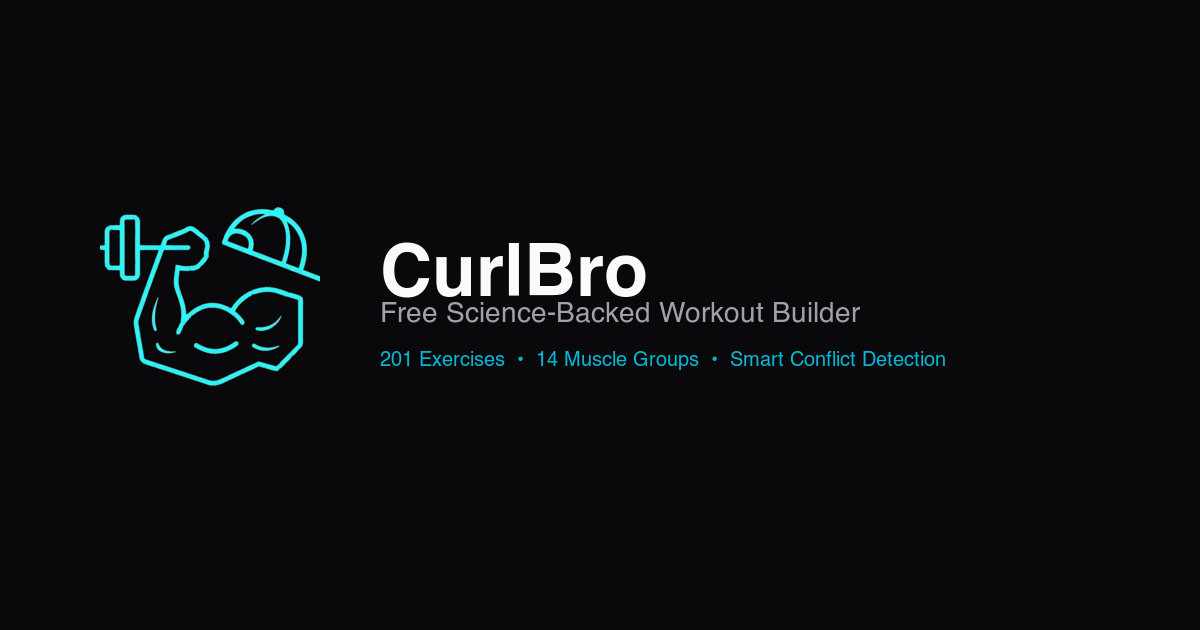
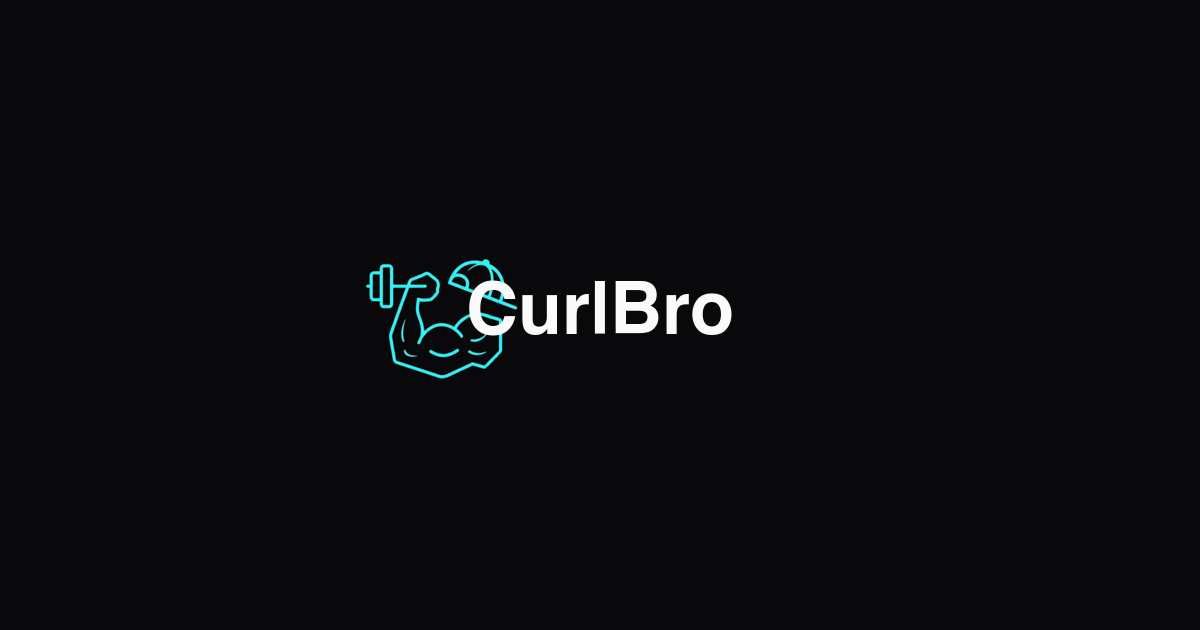
chore: remove "science-backed" language, portfolio ads, add delete confirmation
- Remove all "science-backed/based" phrasing across app and content pages
- Simplify OG image to just logo + "CurlBro" text
- Remove all 6 portfolio/"Built by" house ads and portfolio category
- Replace "Clear all saved workouts & logs" with "Delete all data" + confirmation prompt
- Fix privacy policy overview to not contradict GA/AdSense sections
- Update ad slot configs, tests, and docs

Changed region(s): [[0.3083, 0.3619, 0.7092, 0.6032], [0.0617, 0.3317, 0.2775, 0.6333], [0.6167, 0.5429, 0.7708, 0.6032]]

diff --git a/public/guide/index.html b/public/guide/index.html
@@ -25,9 +25,9 @@
 
   <!-- SEO Meta -->
   <title>User Guide &mdash; CurlBro Workout Builder</title>
-  <meta name="description" content="Complete guide to CurlBro, the free science-backed workout builder. Learn about 201 exercises, smart conflict detection, superset grouping, gap analysis, and 16 pre-built templates." />
+  <meta name="description" content="Complete guide to CurlBro, the free workout builder. Learn about 201 exercises, smart conflict detection, superset grouping, gap analysis, and 16 pre-built templates." />
   <meta name="author" content="Simone Longo" />
-  <meta name="keywords" content="curlbro guide, workout builder tutorial, exercise conflict detection, superset workout, gap analysis, workout templates, science-based workout" />
+  <meta name="keywords" content="curlbro guide, workout builder tutorial, exercise conflict detection, superset workout, gap analysis, workout templates, free workout app" />
   <meta name="robots" content="index, follow" />
   <link rel="canonical" href="https://curlbro.com/guide/" />
 
@@ -44,7 +44,7 @@
   <meta property="og:type" content="article" />
   <meta property="og:url" content="https://curlbro.com/guide/" />
   <meta property="og:title" content="User Guide &mdash; CurlBro Workout Builder" />
-  <meta property="og:description" content="Complete guide to CurlBro, the free science-backed workout builder with 201 exercises, smart conflict detection, and 16 pre-built templates." />
+  <meta property="og:description" content="Complete guide to CurlBro, the free workout builder with 201 exercises, smart conflict detection, and 16 pre-built templates." />
   <meta property="og:image" content="https://curlbro.com/og-image.png" />
   <meta property="og:image:width" content="1200" />
   <meta property="og:image:height" content="630" />
@@ -54,7 +54,7 @@
   <!-- Twitter Card -->
   <meta name="twitter:card" content="summary_large_image" />
   <meta name="twitter:title" content="User Guide &mdash; CurlBro Workout Builder" />
-  <meta name="twitter:description" content="Complete guide to the free science-backed workout builder with 201 exercises and smart programming tools." />
+  <meta name="twitter:description" content="Complete guide to the free workout builder with 201 exercises and smart programming tools." />
   <meta name="twitter:image" content="https://curlbro.com/og-image.png" />
 
   <!-- JSON-LD Article -->
@@ -654,7 +654,7 @@
     </span>
     <h1>User <span>Guide</span></h1>
     <p class="hero-sub">
-      Everything you need to build smarter, science-backed workouts. From your first session to advanced programming techniques, this guide covers every feature in CurlBro.
+      Everything you need to build smarter workouts. From your first session to advanced programming techniques, this guide covers every feature in CurlBro.
     </p>
     <div class="stat-grid">
       <div class="stat-card">
@@ -785,7 +785,7 @@
           </ol>
 
           <div class="callout">
-            <p><strong>Quick start alternative:</strong> If you do not want to build from scratch, head to the Library tab and choose one of the 16 pre-built templates. These are science-backed programs designed for different experience levels and split types. Tap any template to preview it, then start it directly or copy it to customize.</p>
+            <p><strong>Quick start alternative:</strong> If you do not want to build from scratch, head to the Library tab and choose one of the 16 pre-built templates. These are programs designed for different experience levels and split types. Tap any template to preview it, then start it directly or copy it to customize.</p>
           </div>
 
           <h3>Navigating the App</h3>

diff --git a/index.html b/index.html
@@ -24,10 +24,10 @@
     </script>
 
     <!-- SEO Meta -->
-    <title>CurlBro — Free Science-Backed Workout Builder | 201 Exercises</title>
-    <meta name="description" content="Free science-backed workout builder with 201 exercises, smart conflict detection, superset grouping, and gap analysis. Build balanced gym routines — no signup, no subscription." />
+    <title>CurlBro — Free Workout Builder | 201 Exercises</title>
+    <meta name="description" content="Free workout builder with 201 exercises, smart conflict detection, superset grouping, and gap analysis. Build balanced gym routines — no signup, no subscription." />
     <meta name="author" content="Simone Longo" />
-    <meta name="keywords" content="workout builder, exercise planner, gym workout generator, workout tracker, science-based workout, free workout app, curlbro" />
+    <meta name="keywords" content="workout builder, exercise planner, gym workout generator, workout tracker, free workout app, curlbro" />
     <meta name="robots" content="index, follow" />
     <meta name="application-name" content="CurlBro" />
     <link rel="canonical" href="https://curlbro.com/" />
@@ -45,7 +45,7 @@
     <!-- Open Graph -->
     <meta property="og:type" content="website" />
     <meta property="og:url" content="https://curlbro.com/" />
-    <meta property="og:title" content="CurlBro — Free Science-Backed Workout Builder" />
+    <meta property="og:title" content="CurlBro — Free Workout Builder" />
     <meta property="og:description" content="Build balanced gym workouts with 201 exercises, smart conflict detection, superset grouping, and gap analysis. Free, no signup required." />
     <meta property="og:image" content="https://curlbro.com/og-image.png" />
     <meta property="og:image:width" content="1200" />
@@ -56,7 +56,7 @@
 
     <!-- Twitter Card -->
     <meta name="twitter:card" content="summary_large_image" />
-    <meta name="twitter:title" content="CurlBro — Free Science-Backed Workout Builder" />
+    <meta name="twitter:title" content="CurlBro — Free Workout Builder" />
     <meta name="twitter:description" content="Build balanced gym workouts with 201 exercises, smart conflict detection, and gap analysis. Free, no signup." />
     <meta name="twitter:image" content="https://curlbro.com/og-image.png" />
     <meta name="twitter:image:alt" content="CurlBro workout builder app interface" />
@@ -68,7 +68,7 @@
       "@type": "WebApplication",
       "name": "CurlBro",
       "url": "https://curlbro.com/",
-      "description": "Free science-backed workout builder with 201 exercises, smart conflict detection, superset grouping, and gap analysis for balanced gym training.",
+      "description": "Free workout builder with 201 exercises, smart conflict detection, superset grouping, and gap analysis for balanced gym training.",
       "applicationCategory": "HealthApplication",
       "operatingSystem": "Any (Web Browser)",
       "browserRequirements": "Requires JavaScript",
@@ -111,7 +111,7 @@
     <noscript>
       <div style="padding:2rem;font-family:sans-serif;color:#fafafa;background:#09090b;min-height:100vh">
         <h1>CurlBro — Free Workout Builder</h1>
-        <p>CurlBro is a free, science-backed workout builder with 201 exercises covering 14 muscle groups.</p>
+        <p>CurlBro is a free workout builder with 201 exercises covering 14 muscle groups.</p>
         <h2>Features</h2>
         <ul>
           <li>Build custom gym workouts from 201 exercises (162 strength, 32 stretching/mobility, 7 cardio)</li>

diff --git a/src/data/houseAds.ts b/src/data/houseAds.ts
@@ -41,14 +41,6 @@ export const HOUSE_ADS: HouseAd[] = [
   { id: 'nu3', category: 'nutrition', label: 'CURLBRO TIP', headline: 'Creatine Works', body: 'Creatine monohydrate is the most studied and effective supplement. 3-5g daily improves strength, power, and muscle growth.', accentColor: 'border-l-violet-500' },
   { id: 'nu4', category: 'nutrition', label: 'CURLBRO TIP', headline: 'Don\'t Fear Carbs', body: 'Carbs fuel intense training. Eat them around workouts for energy and recovery — they don\'t make you fat, excess calories do.', accentColor: 'border-l-violet-500' },
 
-  // Portfolio (6) — accent-primary (app's theme color)
-  { id: 'pf1', category: 'portfolio', label: 'BUILT BY', headline: 'Simone Longo', body: 'Full-stack developer and fitness enthusiast. CurlBro is built with science-backed programming principles.', cta: 'Visit Portfolio', href: 'https://simonelongo.com', accentColor: 'border-l-accent-primary' },
-  { id: 'pf2', category: 'portfolio', label: 'BUILT BY', headline: 'Simone Longo', body: 'CurlBro is free, open-source, and built with love. Check out my other projects and get in touch.', cta: 'Get in Touch', href: 'https://simonelongo.com', accentColor: 'border-l-accent-primary' },
-  { id: 'pf3', category: 'portfolio', label: 'BUILT BY', headline: 'Simone Longo', body: 'Have ideas for CurlBro? Feature requests, bug reports, and feedback are always welcome.', cta: 'Send Feedback', href: 'https://github.com/SpacemanSpiff7/CurlBro/issues', accentColor: 'border-l-accent-primary' },
-  { id: 'pf4', category: 'portfolio', label: 'BUILT BY', headline: 'Simone Longo', body: 'CurlBro uses a graph of 201 exercises with smart conflict detection and gap analysis for balanced workouts.', cta: 'Learn More', href: 'https://simonelongo.com', accentColor: 'border-l-accent-primary' },
-  { id: 'pf5', category: 'portfolio', label: 'BUILT BY', headline: 'Simone Longo', body: 'Building tools that make science-backed fitness accessible to everyone. No subscriptions, no paywalls.', cta: 'Visit Portfolio', href: 'https://simonelongo.com', accentColor: 'border-l-accent-primary' },
-  { id: 'pf6', category: 'portfolio', label: 'BUILT BY', headline: 'Simone Longo', body: 'Enjoying CurlBro? Share it with a friend who lifts. The best feedback comes from real users.', cta: 'Visit Portfolio', href: 'https://simonelongo.com', accentColor: 'border-l-accent-primary' },
-
   // General (3) — zinc accent
   { id: 'gn1', category: 'general', label: 'CURLBRO TIP', headline: 'Progressive Overload', body: 'Gradually increase weight, reps, or sets over time. Your body adapts — keep challenging it to keep growing.', accentColor: 'border-l-zinc-400' },
   { id: 'gn2', category: 'general', label: 'CURLBRO TIP', headline: 'Consistency Beats Perfection', body: 'The best program is the one you stick to. Three solid workouts per week beats six inconsistent ones.', accentColor: 'border-l-zinc-400' },

diff --git a/src/pages/SettingsPage.tsx b/src/pages/SettingsPage.tsx
@@ -1,5 +1,5 @@
 import { useState, useCallback } from 'react';
-import { RotateCcw, Info, Shield, FileText, ExternalLink, Cookie, Mail, BookOpen, Dumbbell } from 'lucide-react';
+import { RotateCcw, Trash2, Info, Shield, FileText, ExternalLink, Cookie, Mail, BookOpen, Dumbbell } from 'lucide-react';
 import { resetCookieConsent } from '@/components/shared/CookieConsent';
 import { Button } from '@/components/ui/button';
 import { TopBar } from '@/components/shared/TopBar';
@@ -15,6 +15,7 @@ export function SettingsPage() {
   const [aboutOpen, setAboutOpen] = useState(false);
   const [privacyOpen, setPrivacyOpen] = useState(false);
   const [termsOpen, setTermsOpen] = useState(false);
+  const [confirmDelete, setConfirmDelete] = useState(false);
   const settings = useStore((state) => state.settings);
   const { updateSettings, resetSettings } = useStore((state) => state.settingsActions);
   const { clearAll } = useStore((state) => state.libraryActions);
@@ -267,15 +268,41 @@ export function SettingsPage() {
             <RotateCcw size={14} className="mr-2" />
             Reset settings to defaults
           </Button>
-          <Button
-            variant="ghost"
-            size="sm"
-            onClick={clearAll}
-            className="w-full justify-start text-destructive hover:text-destructive"
-          >
-            <RotateCcw size={14} className="mr-2" />
-            Clear all saved workouts &amp; logs
-          </Button>
+          {!confirmDelete ? (
+            <Button
+              variant="ghost"
+              size="sm"
+              onClick={() => setConfirmDelete(true)}
+              className="w-full justify-start text-destructive hover:text-destructive"
+            >
+              <Trash2 size={14} className="mr-2" />
+              Delete all data
+            </Button>
+          ) : (
+            <div className="rounded-lg border border-destructive/30 bg-destructive/10 p-3 space-y-2">
+              <p className="text-xs text-destructive">
+                This will delete all your workouts and history. Are you sure?
+              </p>
+              <div className="flex gap-2">
+                <Button
+                  variant="ghost"
+                  size="sm"
+                  onClick={() => setConfirmDelete(false)}
+                  className="flex-1 text-text-secondary"
+                >
+                  Cancel
+                </Button>
+                <Button
+                  variant="ghost"
+                  size="sm"
+                  onClick={() => { clearAll(); setConfirmDelete(false); }}
+                  className="flex-1 text-destructive hover:text-destructive"
+                >
+                  Delete
+                </Button>
+              </div>
+            </div>
+          )}
         </div>
       </div>
       {/* Ad slot */}

diff --git a/src/config/ads.ts b/src/config/ads.ts
@@ -1,5 +1,5 @@
 export type AdSlotKey = 'build' | 'rest_timer' | 'post_workout' | 'library_feed' | 'log_feed' | 'settings';
-export type HouseAdCategory = 'form_tip' | 'recovery' | 'challenge' | 'portfolio' | 'nutrition' | 'general';
+export type HouseAdCategory = 'form_tip' | 'recovery' | 'challenge' | 'nutrition' | 'general';
 
 export interface AdSlotConfig {
   slotId: string;
@@ -17,10 +17,10 @@ export const ADSENSE_ENABLED = import.meta.env.PROD && false; // Kill switch —
 export const ADSENSE_TEST_MODE = true;
 
 export const AD_SLOTS: Record<AdSlotKey, AdSlotConfig> = {
-  build:         { slotId: '', format: 'horizontal', houseAdCategories: ['form_tip', 'challenge', 'portfolio'], rotateHouseAds: false, rotateIntervalMs: 0 },
-  rest_timer:    { slotId: '', format: 'horizontal', houseAdCategories: ['form_tip', 'portfolio', 'general'], rotateHouseAds: true, rotateIntervalMs: 30_000 },
-  post_workout:  { slotId: '', format: 'auto', houseAdCategories: ['recovery', 'nutrition', 'portfolio'], rotateHouseAds: false, rotateIntervalMs: 0 },
-  library_feed:  { slotId: '', format: 'horizontal', houseAdCategories: ['challenge', 'portfolio', 'general'], rotateHouseAds: false, rotateIntervalMs: 0 },
-  log_feed:      { slotId: '', format: 'horizontal', houseAdCategories: ['recovery', 'portfolio', 'general'], rotateHouseAds: false, rotateIntervalMs: 0 },
-  settings:      { slotId: '', format: 'horizontal', houseAdCategories: ['portfolio', 'general'], rotateHouseAds: false, rotateIntervalMs: 0 },
+  build:         { slotId: '', format: 'horizontal', houseAdCategories: ['form_tip', 'challenge', 'general'], rotateHouseAds: false, rotateIntervalMs: 0 },
+  rest_timer:    { slotId: '', format: 'horizontal', houseAdCategories: ['form_tip', 'recovery', 'general'], rotateHouseAds: true, rotateIntervalMs: 30_000 },
+  post_workout:  { slotId: '', format: 'auto', houseAdCategories: ['recovery', 'nutrition', 'general'], rotateHouseAds: false, rotateIntervalMs: 0 },
+  library_feed:  { slotId: '', format: 'horizontal', houseAdCategories: ['challenge', 'nutrition', 'general'], rotateHouseAds: false, rotateIntervalMs: 0 },
+  log_feed:      { slotId: '', format: 'horizontal', houseAdCategories: ['recovery', 'form_tip', 'general'], rotateHouseAds: false, rotateIntervalMs: 0 },
+  settings:      { slotId: '', format: 'horizontal', houseAdCategories: ['form_tip', 'general'], rotateHouseAds: false, rotateIntervalMs: 0 },
 };

diff --git a/src/components/ads/HouseAd.test.tsx b/src/components/ads/HouseAd.test.tsx
@@ -12,15 +12,15 @@ const tipAd: HouseAd = {
   accentColor: 'border-l-cyan-500',
 };
 
-const portfolioAd: HouseAd = {
-  id: 'test-pf',
-  category: 'portfolio',
-  label: 'BUILT BY',
-  headline: 'Simone Longo',
-  body: 'Test portfolio ad',
-  cta: 'Visit Portfolio',
-  href: 'https://simonelongo.com',
-  accentColor: 'border-l-accent-primary',
+const linkAd: HouseAd = {
+  id: 'test-link',
+  category: 'general',
+  label: 'CURLBRO TIP',
+  headline: 'Test Link Ad',
+  body: 'Test ad with link',
+  cta: 'Learn More',
+  href: 'https://example.com',
+  accentColor: 'border-l-zinc-400',
 };
 
 describe('HouseAdComponent', () => {
@@ -37,16 +37,16 @@ describe('HouseAdComponent', () => {
   });
 
   it('renders as a link when href is present', () => {
-    render(<HouseAdComponent ad={portfolioAd} />);
+    render(<HouseAdComponent ad={linkAd} />);
     const link = screen.getByRole('link');
-    expect(link.getAttribute('href')).toBe('https://simonelongo.com');
+    expect(link.getAttribute('href')).toBe('https://example.com');
     expect(link.getAttribute('target')).toBe('_blank');
     expect(link.getAttribute('rel')).toBe('noopener noreferrer');
   });
 
   it('renders CTA text when provided', () => {
-    render(<HouseAdComponent ad={portfolioAd} />);
-    expect(screen.getByText('Visit Portfolio')).toBeTruthy();
+    render(<HouseAdComponent ad={linkAd} />);
+    expect(screen.getByText('Learn More')).toBeTruthy();
   });
 
   it('does not render CTA when not provided', () => {

diff --git a/src/components/ads/HouseAd.tsx b/src/components/ads/HouseAd.tsx
@@ -1,5 +1,5 @@
 import { memo } from 'react';
-import { Lightbulb, Moon, Flame, Apple, Sparkles, Dumbbell, ExternalLink } from 'lucide-react';
+import { Lightbulb, Moon, Flame, Apple, Dumbbell, ExternalLink } from 'lucide-react';
 import type { HouseAd as HouseAdType } from '../../data/houseAds';
 import type { HouseAdCategory } from '../../config/ads';
 
@@ -8,7 +8,6 @@ const CATEGORY_ICON: Record<HouseAdCategory, typeof Lightbulb> = {
   recovery: Moon,
   challenge: Flame,
   nutrition: Apple,
-  portfolio: Sparkles,
   general: Dumbbell,
 };
 
@@ -17,7 +16,6 @@ const CATEGORY_COLORS: Record<HouseAdCategory, { icon: string; bg: string; tag: 
   recovery: { icon: 'text-green-400', bg: 'bg-green-500/8', tag: 'text-green-400/70' },
   challenge: { icon: 'text-amber-400', bg: 'bg-amber-500/8', tag: 'text-amber-400/70' },
   nutrition: { icon: 'text-violet-400', bg: 'bg-violet-500/8', tag: 'text-violet-400/70' },
-  portfolio: { icon: 'text-accent-primary', bg: 'bg-accent-primary/8', tag: 'text-accent-primary/70' },
   general: { icon: 'text-zinc-400', bg: 'bg-zinc-500/8', tag: 'text-zinc-400/70' },
 };
 
@@ -26,7 +24,6 @@ const CATEGORY_TAG: Record<HouseAdCategory, string> = {
   recovery: 'Recovery',
   challenge: 'Challenge',
   nutrition: 'Nutrition',
-  portfolio: 'Built by',
   general: 'Tip',
 };
 

diff --git a/public/programming/index.html b/public/programming/index.html
@@ -27,7 +27,7 @@
   <title>Workout Programming Guide &mdash; CurlBro</title>
   <meta name="description" content="How to actually structure a week of training. Evidence-based workout programming: exercise order, split selection, stretch-mediated hypertrophy, and advanced techniques." />
   <meta name="author" content="Simone Longo" />
-  <meta name="keywords" content="workout programming, exercise order, workout split, push pull legs, stretch mediated hypertrophy, science based training, curlbro" />
+  <meta name="keywords" content="workout programming, exercise order, workout split, push pull legs, stretch mediated hypertrophy, curlbro" />
   <meta name="robots" content="index, follow" />
   <link rel="canonical" href="https://curlbro.com/programming/" />
 

diff --git a/src/pages/PrivacyPolicyPage.tsx b/src/pages/PrivacyPolicyPage.tsx
@@ -35,8 +35,8 @@ export function PrivacyPolicyPage({ open, onOpenChange }: PrivacyPolicyPageProps
           <Section title="Overview">
             <p>
               CurlBro is a client-side web application. All workout data is stored
-              locally in your browser using localStorage. No data is sent to external
-              servers.
+              locally in your browser using localStorage. We use third-party services
+              as described below.
             </p>
           </Section>
 

diff --git a/src/pages/AboutPage.tsx b/src/pages/AboutPage.tsx
@@ -40,7 +40,7 @@ export function AboutPage({ open, onOpenChange }: AboutPageProps) {
           </div>
 
           <p className="text-zinc-400 text-sm leading-relaxed">
-            Science-backed workout builder with 201 exercises, smart conflict
+            Free workout builder with 201 exercises, smart conflict
             detection, and gap analysis for balanced training.
           </p>
 

diff --git a/src/components/ads/AdSlot.test.tsx b/src/components/ads/AdSlot.test.tsx
@@ -32,7 +32,7 @@ describe('AdSlot', () => {
   it('renders house ad with content from correct categories', () => {
     render(<AdSlot slotKey="post_workout" />);
     const ad = screen.getByRole('complementary');
-    // post_workout categories: recovery, nutrition, portfolio
+    // post_workout categories: recovery, nutrition, general
     expect(ad.textContent).toBeTruthy();
   });
 });

diff --git a/src/pages/MyWorkouts.tsx b/src/pages/MyWorkouts.tsx
@@ -201,7 +201,7 @@ function TemplateSection({
         )}
       </button>
       <p className="text-[11px] text-text-tertiary mb-2">
-        Science-backed templates. Tap edit to customize a copy.
+        Pre-built templates. Tap edit to customize a copy.
       </p>
       {open && (
         <div className="space-y-2">
